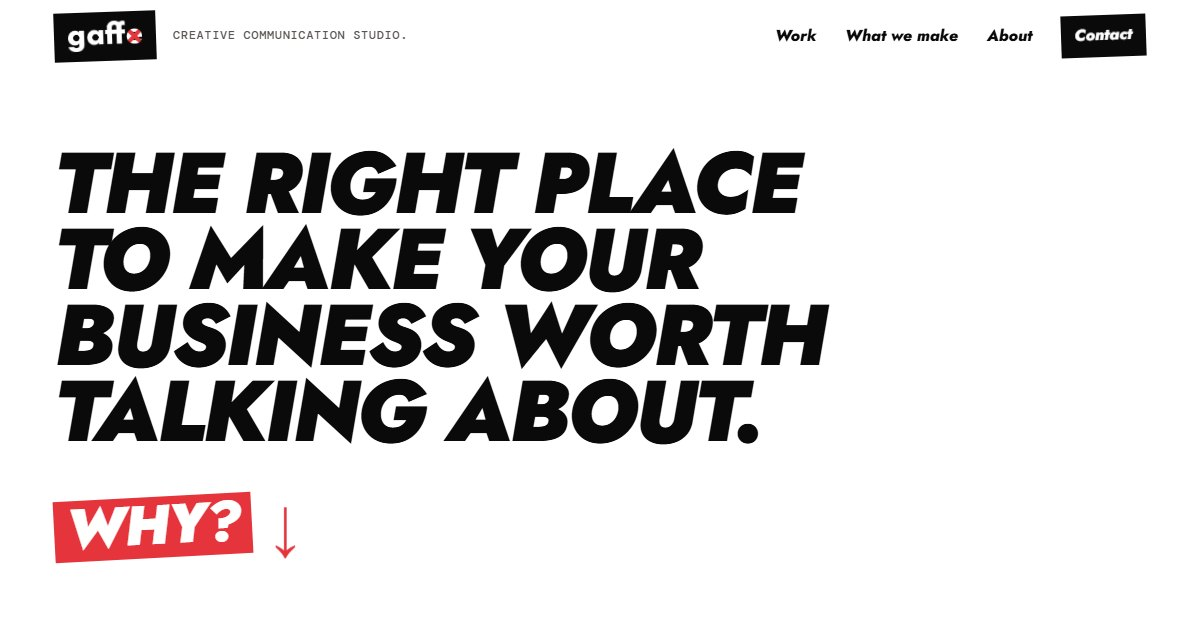
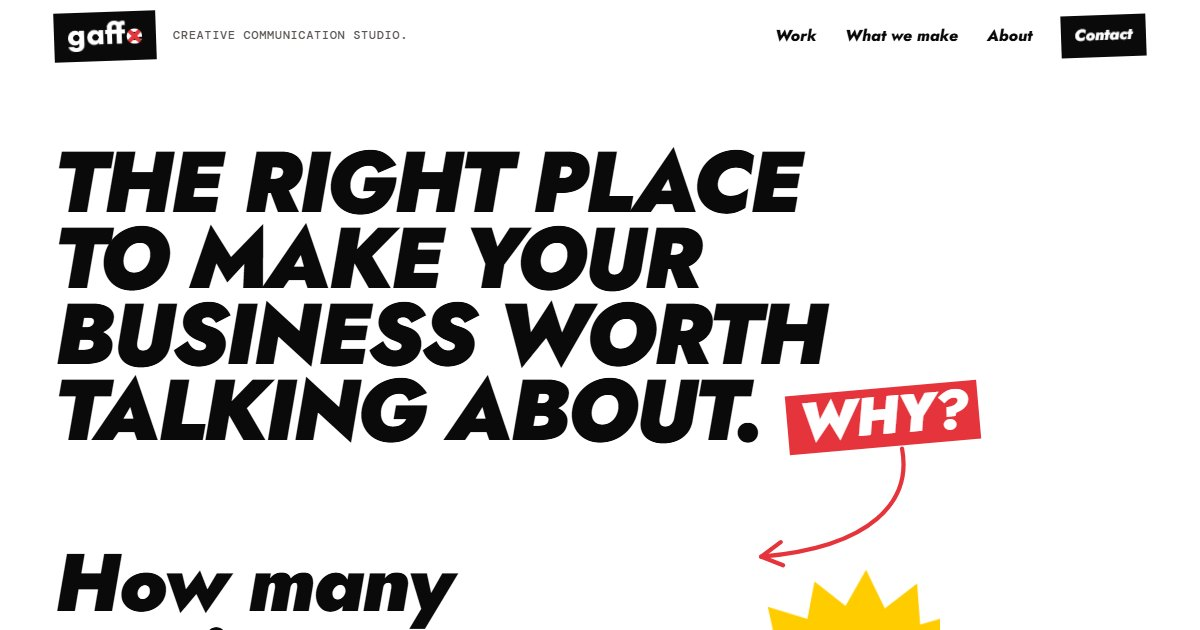
Blocos 1 e 2 da home ligados; imagens novas dos Corn Flakes e do Viagra
- O WHY? passa para o fim da frase do bloco 1 e uma seta vermelha desenhada leva à pergunta do
  bloco 2, que fica logo a seguir; no telemóvel o bloco 1 continua maior que o bloco 2
- Corn Flakes e Viagra com as imagens enviadas, recortadas e a preto e branco como o micro-ondas
  (as versões a cores ficam em img/*-cor.webp); o Viagra entra pelo campo do back office

diff --git a/css/style.css b/css/style.css
@@ -495,13 +495,15 @@ a.reach__line:hover{background:var(--red)}
 .top__brand{display:flex;align-items:center;gap:clamp(10px,1.4vw,18px);min-width:0}
 .top__tag{font-family:var(--mono);font-size:.72rem;font-weight:500;letter-spacing:.08em;text-transform:uppercase;line-height:1.3;color:var(--soft);animation:navIn .65s cubic-bezier(.3,1.6,.5,1) .15s both}
 .intro > .wrap{width:100%}
-.intro{min-height:calc(100svh - var(--top));display:grid;align-items:center;padding-block:clamp(32px,6vw,96px)}
-.intro__h{font-style:italic;font-weight:900;font-size:clamp(2.7rem,7.2vw,7.4rem);line-height:.88;letter-spacing:-.035em;text-transform:uppercase;text-wrap:balance;max-width:15ch}
-.intro__why{display:inline-flex;align-items:center;gap:.35em;margin-top:clamp(24px,4vw,56px);text-decoration:none;font-size:clamp(2rem,4.6vw,4.2rem);line-height:1}
-.intro__why .strip{--r:-3deg;transition:background .2s,transform .5s cubic-bezier(.3,1.7,.5,1) .7s}
+/* block 1 and block 2 read as one opening: the statement asks, the gaffe question answers right below */
+.intro{padding-block:clamp(36px,6vw,96px) 0}
+.intro__h{font-style:italic;font-weight:900;font-size:clamp(2.7rem,7.2vw,7.6rem);line-height:.88;letter-spacing:-.035em;text-transform:uppercase;text-wrap:balance;max-width:16ch}
+.intro__why{position:relative;display:inline-block;margin-left:.08em;font-size:.62em;text-decoration:none;vertical-align:.1em;white-space:nowrap}
+.intro__why .strip{--r:-5deg;transition:background .2s,transform .5s cubic-bezier(.3,1.7,.5,1) .7s}
 .intro__why:hover .strip{background:var(--ink)}
-.intro__arr{font-weight:900;color:var(--red);animation:nudge 1.6s ease-in-out infinite}
-@keyframes nudge{50%{transform:translateY(.18em)}}
+.intro__arr{position:absolute;right:28%;top:96%;width:3.4em;height:auto;overflow:visible;fill:none;stroke:var(--red);stroke-width:7;stroke-linecap:round;stroke-linejoin:round;stroke-dasharray:420;stroke-dashoffset:420;transition:stroke-dashoffset 1s cubic-bezier(.7,0,.2,1) 1.1s;pointer-events:none}
+.intro.in .intro__arr{stroke-dashoffset:0}
+.intro + .hero{padding-top:clamp(40px,7vw,110px)}
 #gaffe{scroll-margin-top:var(--top)}
 .contact__grid{grid-template-columns:minmax(0,1fr)}
 .contact .form{max-width:760px}
@@ -513,7 +515,13 @@ a.reach__line:hover{background:var(--red)}
 .file.has-file .file__name{color:var(--ink)}
 @media (max-width:560px){
   .top__tag{font-size:.6rem;max-width:11em}
+  .intro__arr{display:none}
 }
 @media (prefers-reduced-motion:reduce){
-  .top__tag,.intro__arr{animation:none}
+  .top__tag{animation:none}
+  .intro__arr{transition:none;stroke-dashoffset:0}
+}
+@media (max-width:860px){
+  .intro__h{font-size:11.6vw}
+  .hero h2{font-size:12.4vw}
 }

diff --git a/src/index.html b/src/index.html
@@ -65,11 +65,10 @@
 
 <main id="home">
 
-  <!-- block 1: the statement; WHY? leads into block 2 -->
+  <!-- block 1: the statement; WHY? and its arrow lead straight into block 2, which answers it -->
   <section class="sec intro" id="top" data-in>
     <div class="wrap">
-      <h1 class="intro__h">{{home.intro.titulo}}</h1>
-      <a class="intro__why" href="#gaffe" data-go="gaffe"><span class="strip strip--red pop">{{home.intro.porque}}</span><span class="intro__arr" aria-hidden="true">↓</span></a>
+      <h1 class="intro__h">{{home.intro.titulo}} <a class="intro__why" href="#gaffe" data-go="gaffe"><span class="strip strip--red pop">{{home.intro.porque}}</span><svg class="intro__arr" viewBox="0 0 300 200" aria-hidden="true"><path d="M262 6C278 92 214 168 30 184"/><path d="M62 160L30 184l36 14"/></svg></a></h1>
     </div>
   </section>
 
@@ -129,7 +128,7 @@
               <article class="acc">
                 <div class="cg" aria-hidden="true">
                   <div class="pc" style="--x:13%;--y:0%;--w:74%" data-hspeed=".05"><div class="shape dot" style="--c:var(--yellow)"></div></div>
-                  <div class="pc" style="--x:14%;--y:18%;--w:72%;--r:4deg" data-hspeed=".05"><img class="lift" src="img/acc-cornflakes-cut.webp" width="485" height="326" alt=""></div>
+                  <div class="pc" style="--x:14%;--y:18%;--w:72%;--r:4deg" data-hspeed=".05"><img class="lift" src="img/acc-cornflakes-cut.webp" width="640" height="485" alt=""></div>
                 </div>
                 <h2>{{historia.s01.t04}}<sup>*</sup></h2>
                 <p><b class="red">*</b> {{historia.s01.t05}}</p>
